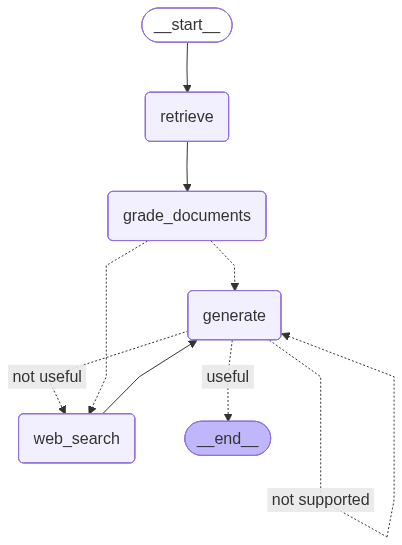
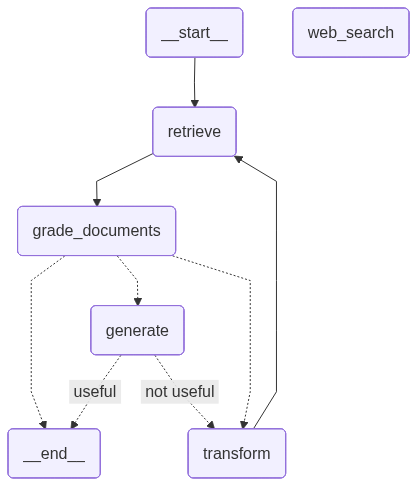
Add transform logic to decision-making workflow and enhance grade evaluation

diff --git a/graph/graph.py b/graph/graph.py
@@ -6,8 +6,8 @@ from langgraph.graph import END, StateGraph
 
 from graph.chains.answer_grader import answer_grader_chain
 from graph.chains.hallucination_grader import hallucination_grader_chain
-from graph.consts import GENERATE, GRADE_DOCUMENTS, RETRIEVE, WEB_SEARCH
-from graph.nodes import generate, grade_documents, retrieve, web_search
+from graph.consts import GENERATE, GRADE_DOCUMENTS, RETRIEVE, WEB_SEARCH, TRANSFORM
+from graph.nodes import generate, grade_documents, retrieve, web_search, transform
 from graph.state import GraphState
 
 
@@ -45,11 +45,25 @@ def grade_generation_grounded_in_documents_and_question(state: GraphState) -> st
             return "useful"
         else:
             print("---DECISION: GENERATION DOES NOT ADDRESS QUESTION---")
-            return "not useful"
+            if state.get("transform_count", 0) < 2:
+                return "not useful"
+            else:
+                return "useful"
     else:
         print("---DECISION: GENERATION IS NOT GROUNDED IN DOCUMENTS, RE-TRY---")
-        return "not supported"
+        if state.get("transform_count", 0) < 2:
+            return "not useful"
+        else:
+            return "useful"
 
+
+def decide_to_transform(state: GraphState) -> str:
+    print("---DECIDE TO TRANSFORM---")
+    if state.get("transform_count", 0) < 2 and state["transform"]:
+        return TRANSFORM
+    elif state.get("transform_count", 0) < 2 and not state["transform"]:
+        return GENERATE
+    return END
 
 workflow = StateGraph(GraphState)
 
@@ -57,20 +71,24 @@ workflow.add_node(RETRIEVE, retrieve)
 workflow.add_node(GRADE_DOCUMENTS, grade_documents)
 workflow.add_node(WEB_SEARCH, web_search)
 workflow.add_node(GENERATE, generate)
+workflow.add_node(TRANSFORM, transform)
 
 workflow.set_entry_point(RETRIEVE)
 workflow.add_edge(RETRIEVE, GRADE_DOCUMENTS)
 workflow.add_conditional_edges(
     GRADE_DOCUMENTS,
-    decide_to_generate,
-    path_map={WEB_SEARCH: WEB_SEARCH, GENERATE: GENERATE},
+    decide_to_transform,
+    path_map={TRANSFORM: TRANSFORM, END: END, GENERATE: GENERATE}
 )
+
+workflow.add_edge(TRANSFORM, RETRIEVE)
+
 workflow.add_conditional_edges(
     GENERATE,
     grade_generation_grounded_in_documents_and_question,
-    path_map={"useful": END, "not useful": WEB_SEARCH, "not supported": GENERATE},
+    path_map={"useful": END, "not useful": TRANSFORM},
 )
-workflow.add_edge(WEB_SEARCH, GENERATE)
+
 workflow.add_edge(GENERATE, END)
 
 app = workflow.compile()
